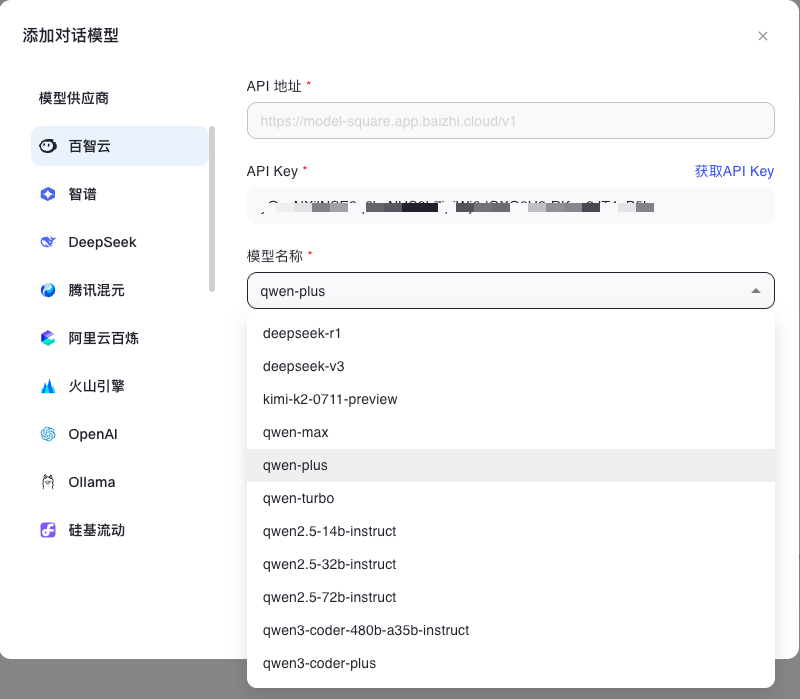
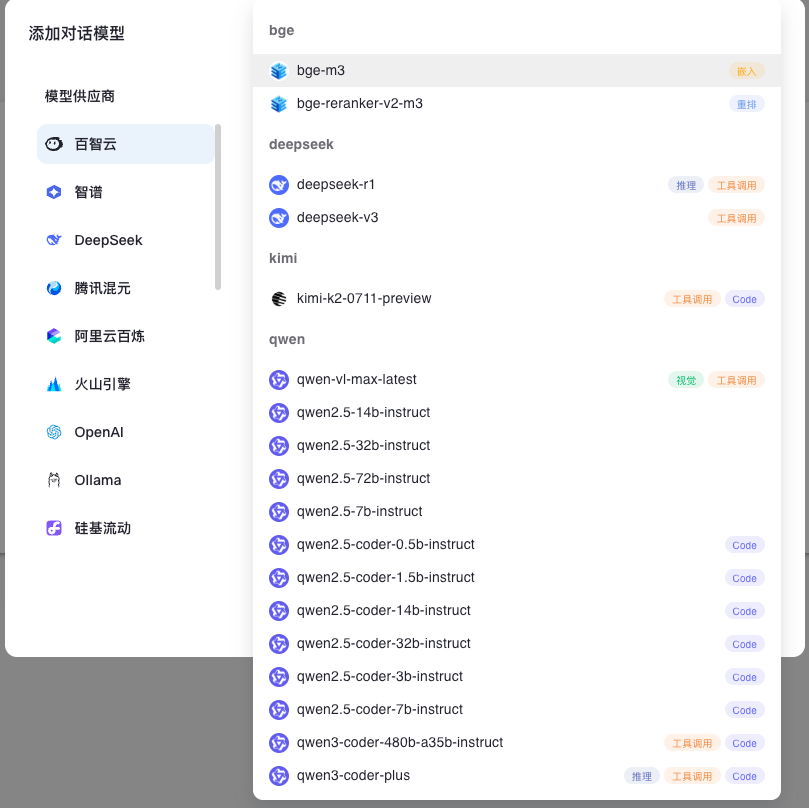
chore: 优化模型分组逻辑 (#60)

diff --git a/ui/ModelModal/src/utils/model.ts b/ui/ModelModal/src/utils/model.ts
@@ -562,17 +562,6 @@ export function isWebSearchModel(model_id: string, provider: string): boolean {
   return false
 }
 
-export const getModelGroup = (model_id: string): string => {
-  // 1. 提取model_id第一个-之前的部分
-  const firstPart = model_id.split('-')[0];
-  
-  // 2. 从头获取连续的纯字母部分
-  const withoutNumbers = firstPart.match(/^[a-zA-Z]+/)?.[0] || '';
-  
-  // 3. 返回结果
-  return withoutNumbers;
-}
-
 export function getModelLogo(modelId: string) {
   const isLight = true
 
@@ -706,4 +695,52 @@ export function getModelLogo(modelId: string) {
   }
 
   return undefined
+}
+
+/**
+ * 从模型 ID 中提取默认组名。
+ * 规则如下：
+ * 1. 第一类分隔规则：以第一个出现的分隔符分割，取第 0 个部分作为组名。
+ * 2. 第二类分隔规则：取前两个部分拼接（如 'a-b-c' 得到 'a-b'）。
+ * 3. 其他情况返回 id。
+ *
+ * 例如：
+ * - 'gpt-3.5-turbo-16k-0613' => 'gpt-3.5'
+ * - 'qwen3:32b' => 'qwen3'
+ * - 'Qwen/Qwen3-32b' => 'qwen'
+ * - 'deepseek-r1' => 'deepseek-r1'
+ * - 'o3' => 'o3'
+ *
+ * @param {string} id 模型 ID 字符串
+ * @param {string} [provider] 提供商 ID 字符串
+ * @returns {string} 提取的组名
+ */
+export const getModelGroup = (id: string, provider?: string): string => {
+  const str = id.toLowerCase()
+
+  // 定义分隔符
+  let firstDelimiters = ['/', ' ', ':']
+  let secondDelimiters = ['-', '_']
+
+  if (provider && ['aihubmix', 'silicon', 'ocoolai', 'o3', 'dmxapi'].includes(provider.toLowerCase())) {
+    firstDelimiters = ['/', ' ', '-', '_', ':']
+    secondDelimiters = []
+  }
+
+  // 第一类分隔规则
+  for (const delimiter of firstDelimiters) {
+    if (str.includes(delimiter)) {
+      return str.split(delimiter)[0]
+    }
+  }
+
+  // 第二类分隔规则
+  for (const delimiter of secondDelimiters) {
+    if (str.includes(delimiter)) {
+      const parts = str.split(delimiter)
+      return parts.length > 1 ? parts[0] + '-' + parts[1] : parts[0]
+    }
+  }
+
+  return str
 }

diff --git a/ui/ModelModal/src/components/Tags/ModelCapabilities/CodeTag.tsx b/ui/ModelModal/src/components/Tags/ModelCapabilities/CodeTag.tsx
@@ -15,7 +15,7 @@ export const CodeTag = ({ size, showTooltip, showLabel, ...restProps }: Props) =
     <CustomTag
       size={size}
       color="#6366f1"
-      icon="Code"
+      icon="代码生成"
       tooltip={showTooltip ? t('models.type.code_generation') : undefined}
       {...restProps}>
       {showLabel ? t('models.type.code_generation') : ''}

diff --git a/ui/ModelModal/src/components/Tags/ModelCapabilities/ReasoningTag.tsx b/ui/ModelModal/src/components/Tags/ModelCapabilities/ReasoningTag.tsx
@@ -14,7 +14,7 @@ export const ReasoningTag = ({ size, showTooltip, showLabel, ...restProps }: Pro
     <CustomTag
       size={size}
       color="#6372bd"
-      icon="推理"
+      icon="深度思考"
       tooltip={showTooltip ? t('models.type.reasoning') : undefined}
       {...restProps}>
       {showLabel ? t('models.type.reasoning') : ''}
